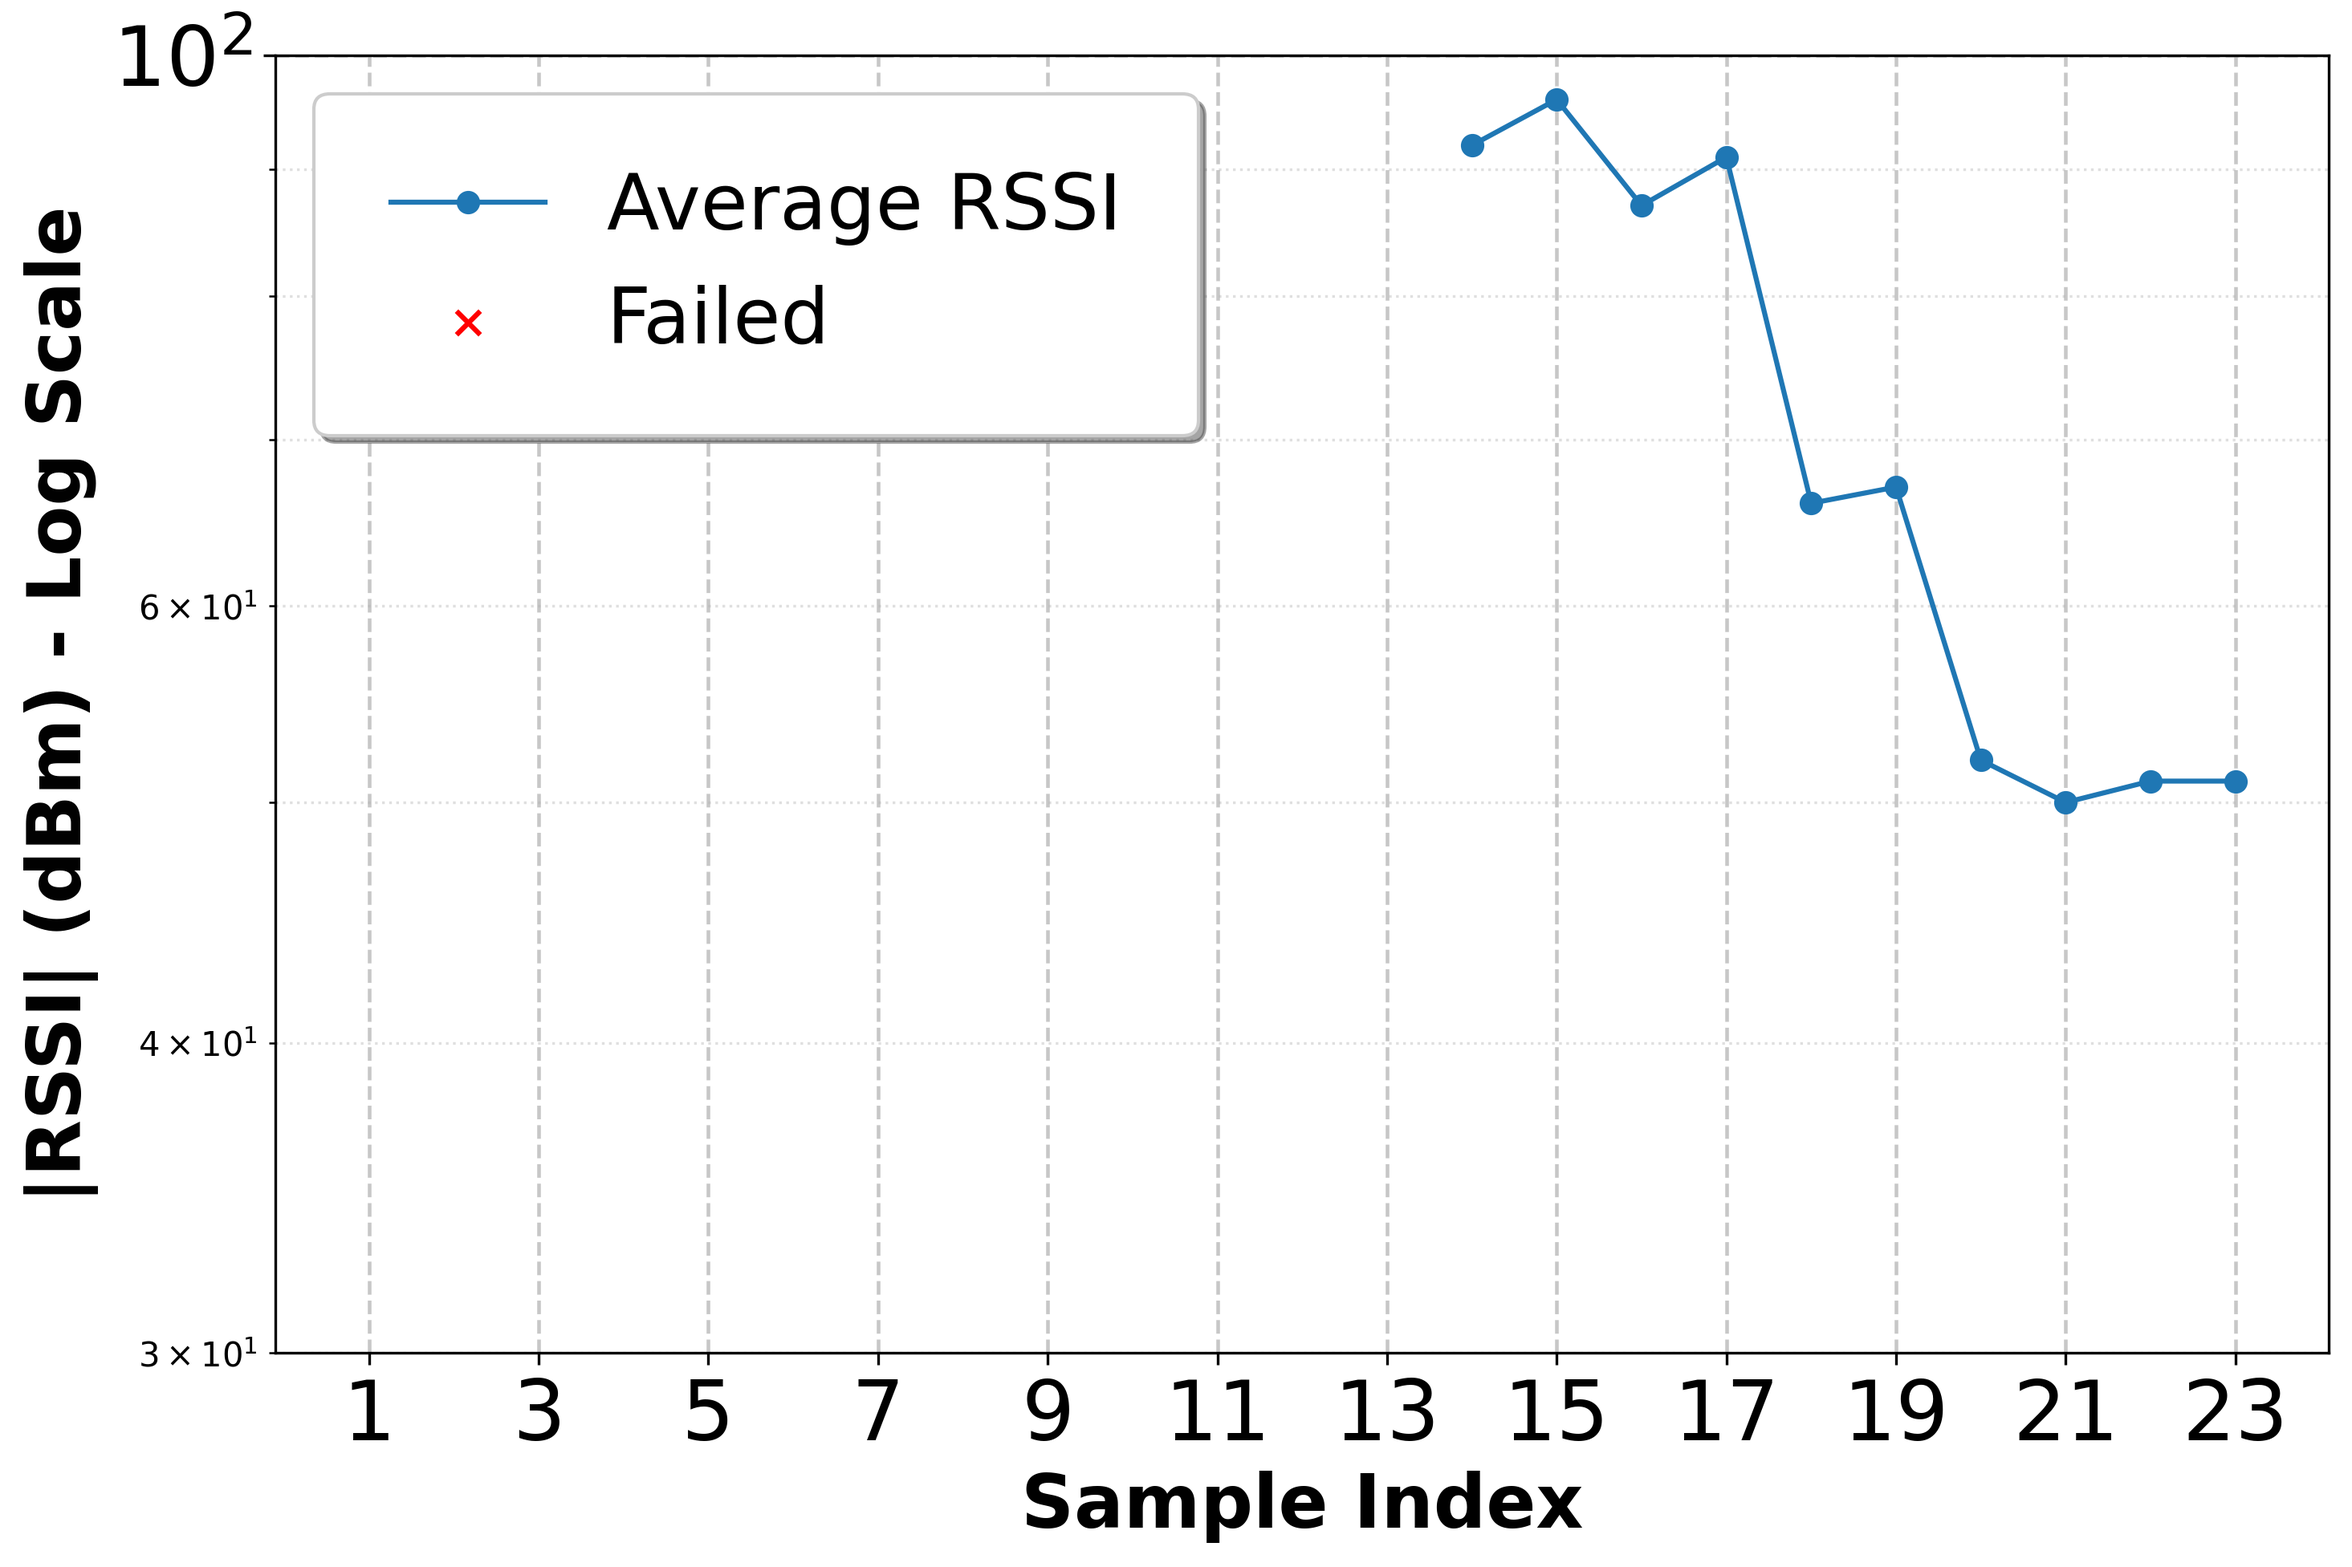
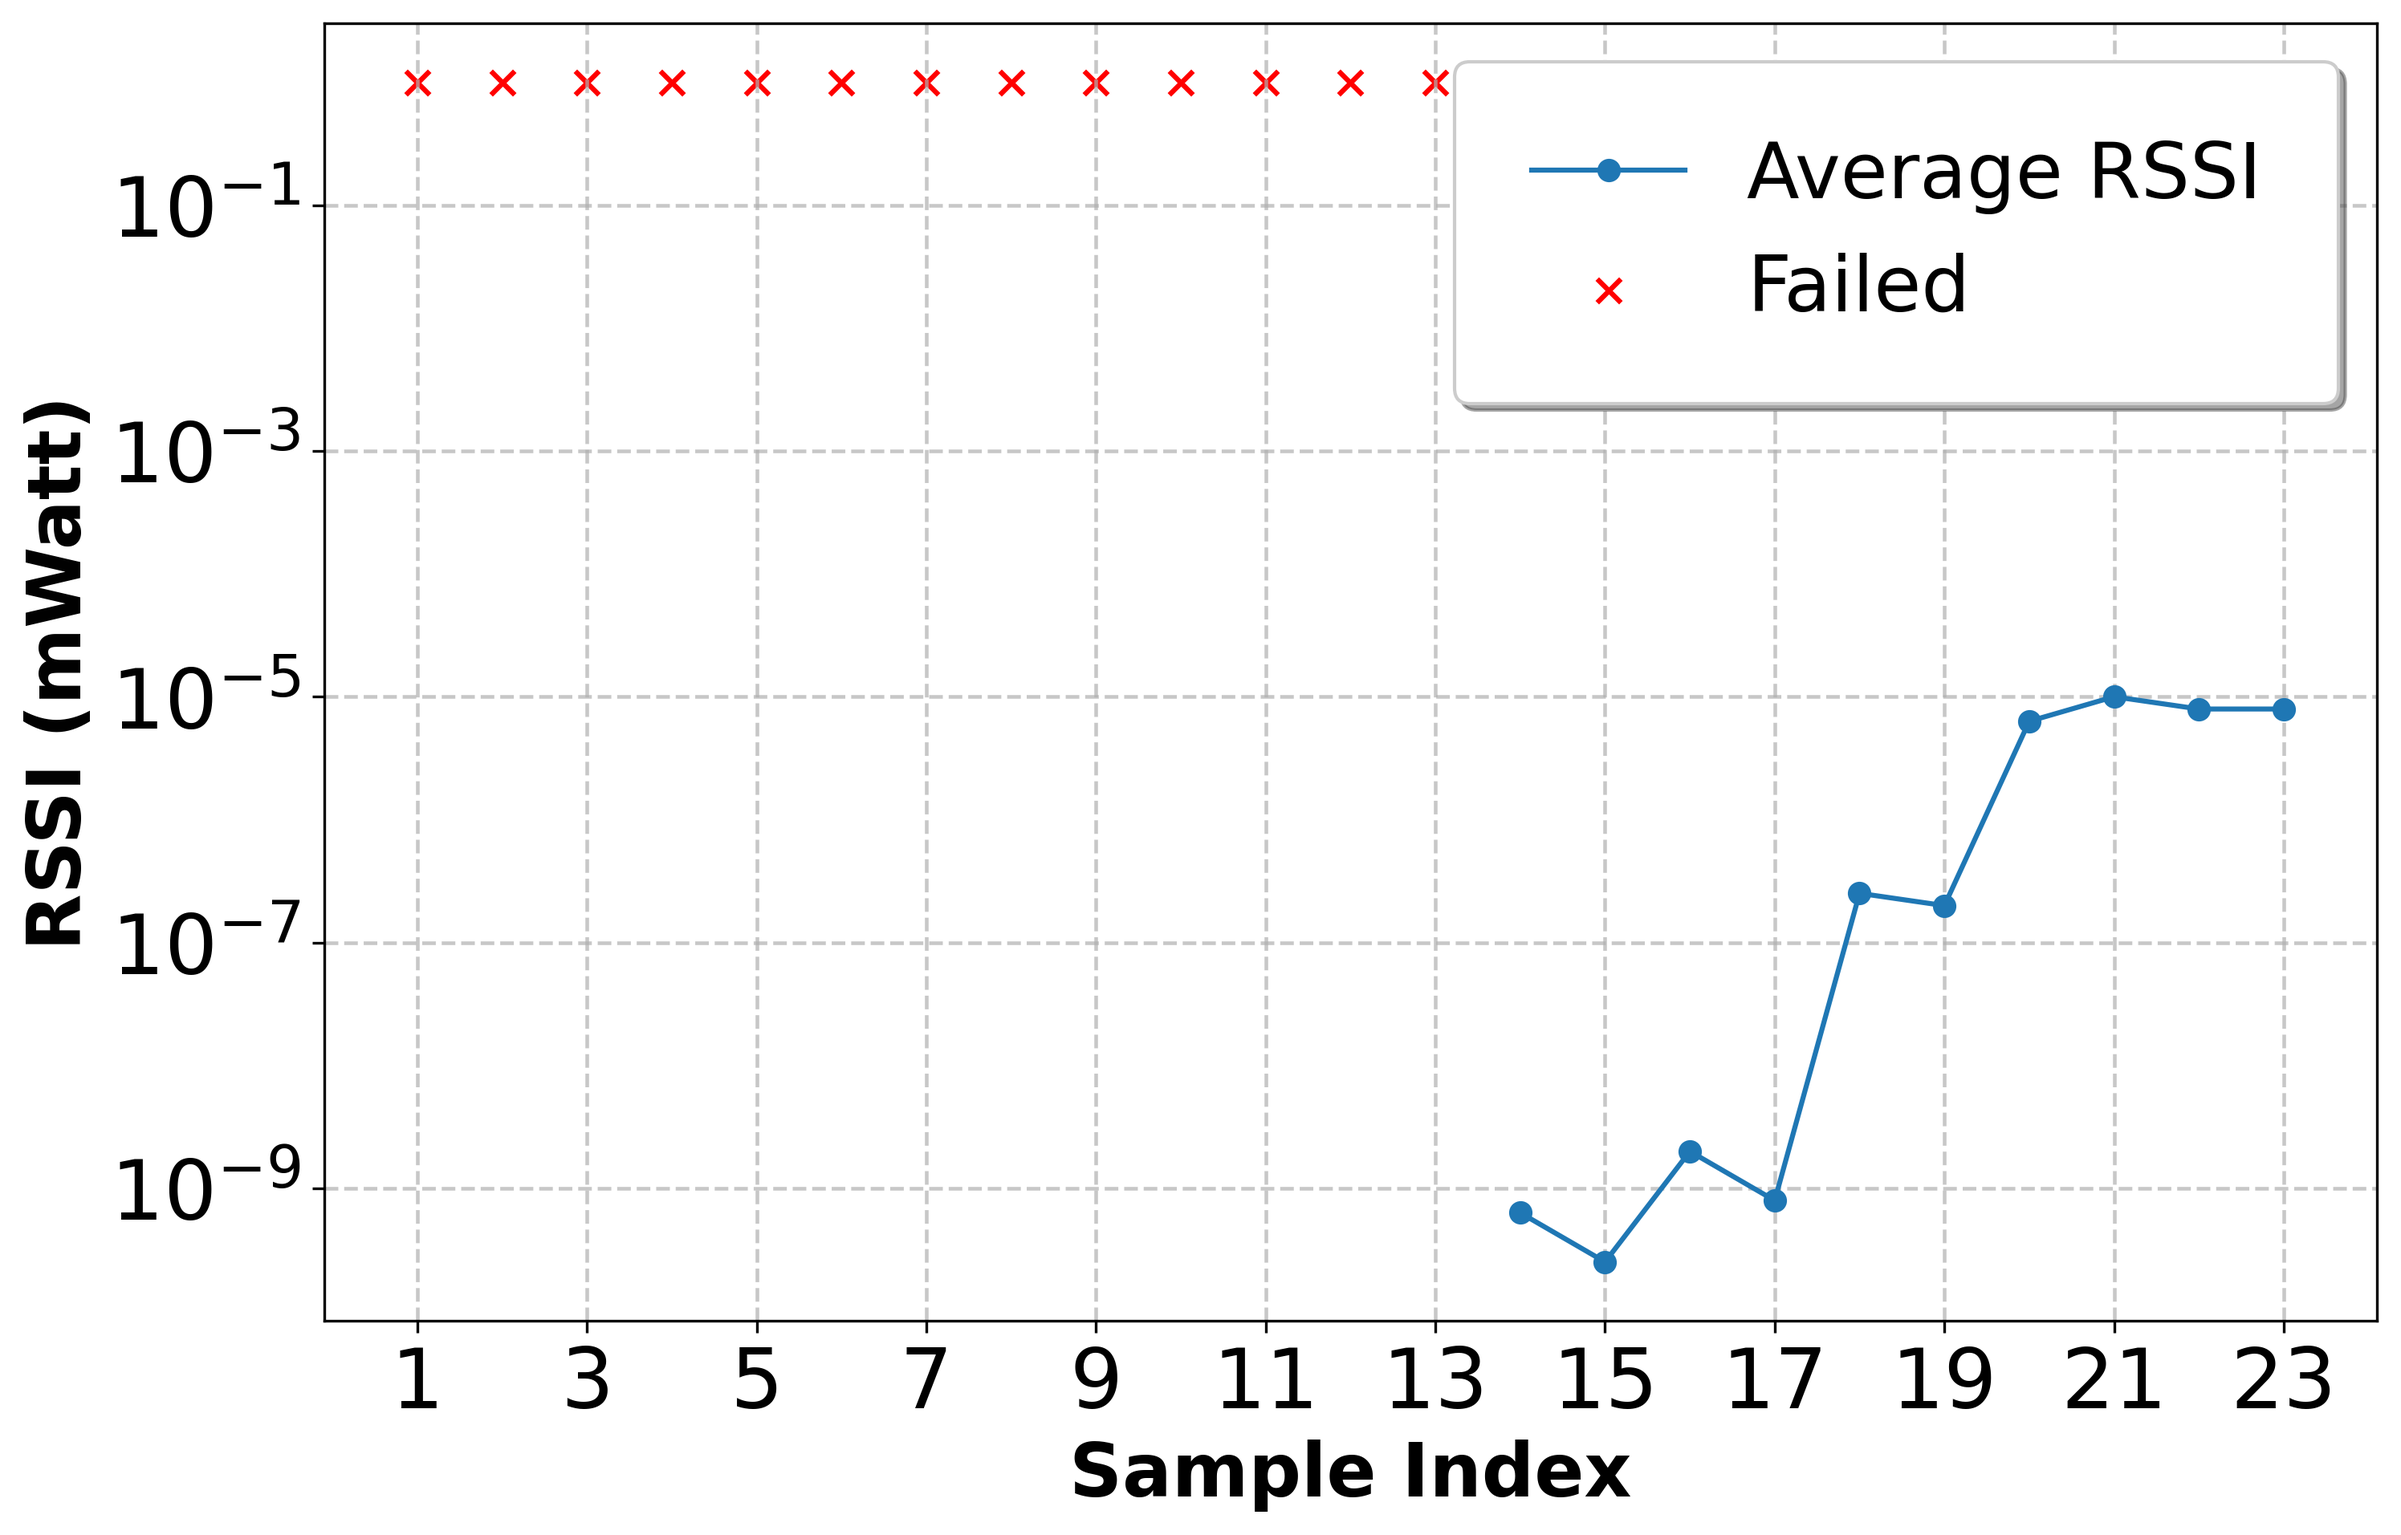
feat: implement logarithmic RSSI conversion in plots; add new visualization script

diff --git a/calibration/visualize_data.py b/calibration/visualize_data.py
@@ -183,22 +183,22 @@ plot_moving_experiment('./.output/moving_experiment.csv')
 def plot_rssi_stats_logarithmic(summary, title, df_exp):
     """
     Plot RSSI statistics with logarithmic scale on Y-axis
-    Since RSSI values are negative, we plot |RSSI| (absolute values)
+    Using 10^(RSSI/10) conversion for proper logarithmic representation
     """
     # ---------------------------
     # Error bar plot with logarithmic scale
     # ---------------------------
     plt.figure(figsize=(11, 7))
     
-    # Convert to absolute values for logarithmic scale
-    avg_rssi_abs = np.abs(summary['Avg RSSI'])
-    min_rssi_abs = np.abs(summary['Max RSSI'])  # Note: Max RSSI (less negative) becomes Min absolute
-    max_rssi_abs = np.abs(summary['Min RSSI'])  # Note: Min RSSI (more negative) becomes Max absolute
+    # Convert RSSI values using 10^(RSSI/10)
+    avg_rssi_converted = 10**(summary['Avg RSSI']/10)
+    min_rssi_converted = 10**(summary['Min RSSI']/10)
+    max_rssi_converted = 10**(summary['Max RSSI']/10)
     
     plt.errorbar(
         summary.index,
-        avg_rssi_abs,
-        yerr=[avg_rssi_abs - min_rssi_abs, max_rssi_abs - avg_rssi_abs],
+        avg_rssi_converted,
+        yerr=[avg_rssi_converted - min_rssi_converted, max_rssi_converted - avg_rssi_converted],
         fmt='o-',
         capsize=8,
         label='RSSI Reading',
@@ -211,12 +211,9 @@ def plot_rssi_stats_logarithmic(summary, title, df_exp):
     plt.grid(True, linestyle='--', alpha=0.7, linewidth=1.1)
     plt.grid(True, which='minor', linestyle=':', alpha=0.4)
     plt.xlabel('Distance (meters)', fontsize=22, fontweight='bold')
-    plt.ylabel('|RSSI| (dBm) - Log Scale', fontsize=22, fontweight='bold')
+    plt.ylabel('RSSI (mWatt)', fontsize=22, fontweight='bold')
     plt.legend(frameon=True, fancybox=True, shadow=True, fontsize=23, loc='best', borderpad=1)
     plt.tick_params(axis='both', which='major', labelsize=25)
-    
-    # Set y-axis limits to ensure proper visualization
-    plt.ylim([30, 100])  # Adjust based on your RSSI range (typically 30-90 dBm in absolute)
     
     plt.savefig(f'{title}_MinAverageMax_RSSI_Values_Logarithmic.png', dpi=300, bbox_inches='tight')
     plt.show()
@@ -224,6 +221,7 @@ def plot_rssi_stats_logarithmic(summary, title, df_exp):
 def plot_moving_experiment_logarithmic(file_path):
     """
     Plot moving experiment with logarithmic scale on Y-axis
+    Using 10^(RSSI/10) conversion for proper logarithmic representation
     """
     df = pd.read_csv(file_path)
     df_success = df[df['Status'] == 'Success']
@@ -236,19 +234,19 @@ def plot_moving_experiment_logarithmic(file_path):
     
     plt.figure(figsize=(11, 7))
     
-    # Convert to absolute values for logarithmic scale
-    avg_rssi_abs = np.abs(stats['RSSI']['mean'])
+    # Convert RSSI values using 10^(RSSI/10)
+    avg_rssi_converted = 10**(stats['RSSI']['mean']/10)
     
     # Plot success points
-    plt.plot(stats.index, avg_rssi_abs, 'o-', label='Average RSSI')
+    plt.plot(stats.index, avg_rssi_converted, 'o-', label='Average RSSI')
     
     # Plot failed points if they exist
     if not df_failed.empty and 'RSSI' in df_failed.columns:
         # Filter out any NaN or invalid RSSI values
         valid_failed = df_failed.dropna(subset=['RSSI'])
         if not valid_failed.empty:
-            failed_rssi_abs = np.abs(valid_failed['RSSI'])
-            plt.scatter(valid_failed['Reading Number'], failed_rssi_abs, 
+            failed_rssi_converted = 10**(valid_failed['RSSI']/10)
+            plt.scatter(valid_failed['Reading Number'], failed_rssi_converted, 
                        label='Failed', marker='x', color='red', s=50)
     
     plt.yscale('log')
@@ -264,12 +262,9 @@ def plot_moving_experiment_logarithmic(file_path):
     plt.grid(True, linestyle='--', alpha=0.7, linewidth=1.1)
     plt.grid(True, which='minor', linestyle=':', alpha=0.4)
     plt.xlabel('Sample Index', fontsize=22, fontweight='bold')
-    plt.ylabel('|RSSI| (dBm) - Log Scale', fontsize=22, fontweight='bold')
+    plt.ylabel('RSSI (mWatt)', fontsize=22, fontweight='bold')
     plt.legend(frameon=True, fancybox=True, shadow=True, fontsize=23, loc='best', borderpad=1)
     plt.tick_params(axis='both', which='major', labelsize=25)
-    
-    # Set y-axis limits
-    plt.ylim([30, 100])  # Adjust based on your RSSI range
     
     plt.savefig('Moving_Experiment_RSSI_Over_Time_Logarithmic.png', dpi=300, bbox_inches='tight')
     plt.show()

diff --git a/calibration/log_plot.py b/calibration/log_plot.py
@@ -1,0 +1,34 @@
+import numpy as np
+import matplotlib.pyplot as plt
+
+# Create simple dataset
+distance = np.array([1, 2, 3, 4, 5, 6, 7, 8, 9, 10])
+rssi = np.array([-45, -52, -58, -63, -67, -71, -75, -78, -82, -85])
+
+# Create figure with two subplots
+fig, (ax1, ax2) = plt.subplots(1, 2, figsize=(12, 5))
+
+# Plot 1: Linear scale
+ax1.scatter(distance, rssi, color='blue', s=50)
+ax1.set_xlabel('Distance (m)')
+ax1.set_ylabel('RSSI (dBm)')
+ax1.set_title('RSSI vs Distance (Linear Scale)')
+ax1.grid(True, alpha=0.3)
+ax1.set_ylim(-90, -40)
+
+# Plot 2: Log scale using 10^(RSSI/10)
+rssi_log_converted = 10**(rssi/10)  # Convert RSSI using 10^(RSSI/10)
+ax2.scatter(distance, rssi_log_converted, color='red', s=50)
+ax2.set_xlabel('Distance (m)')
+ax2.set_ylabel('10^(RSSI/10)')
+ax2.set_title('RSSI vs Distance (Log Scale)')
+ax2.set_yscale('log')
+ax2.grid(True, alpha=0.3)
+
+plt.tight_layout()
+plt.show()
+
+# Print the dataset
+print("Dataset:")
+print("Distance (m):", distance)
+print("RSSI (dBm):", rssi)
